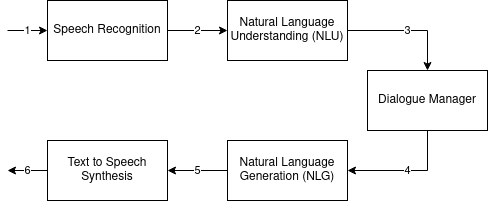
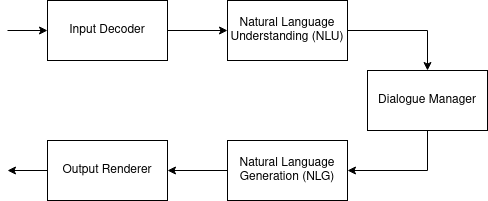
update components of chatbot

diff --git a/Chapter2/chapter2.tex b/Chapter2/chapter2.tex
@@ -45,21 +45,25 @@ Chatbot có thể được phân chia thành các loại sau đây:
               \item[--] Bạn có thể sử dụng chatbot trong nhiều mảng, ví dụ như nhận đơn đặt hàng của khách, dịch vụ khách hàng và quảng cáo sản phẩm.
           \end{itemize}
 \end{itemize}
-\subsection{Kiến trúc cơ bản của chatbot}
+\subsection{Các thành phần của chatbot}
 \begin{figure}[htp]
     \centering
     \includegraphics[width=15cm]{images/Kiến trúc cơ bản của hệ thống giao tiếp tự động.png}
-    \caption{Kiến trúc cơ bản của một hệ thống giao tiếp tự động}
+    \caption{Các thành phần cơ bản của chatbot}
     \label{fig:Kiến trúc cơ bản của hệ thống giao tiếp tự động}
 \end{figure}
+Một hệ thống chatbot bao gồm các thành phần sau: Input Decoder, Natural Language Understanding (\ac{nlu}), Dialogue Manager, Natural Language Generation (\ac{nlg}) và Output Renderer. Xem hình \ref{fig:Kiến trúc cơ bản của hệ thống giao tiếp tự động}.
 
-Các hệ thống chatbot giao tiếp với con người bằng giọng nói (như Siri \footnote{Xem thêm về Siri tại đây:\url{https://www.apple.com/siri/}}) hoặc bằng văn bản (như các chatbot phát triển trên nền Facebook Messenger \footnote{Xem thêm về Facebook Messenger tại đây:\url{https://www.apple.com/siri/}})). Dù giao tiếp bằng hình thức nào, chatbot cũng cần phải hiểu văn bản để có thể đưa ra những câu trả lời phù hợp cho khách hàng. Thành phần đảm nhiệm công việc này trong hệ thống chatbot được gọi là \ac{nlu}, trong đó có rất nhiều các kỹ thuật xử lý ngôn ngữ tự nhiên (\ac{nlp}) được áp dụng (xem hình \ref{fig:Kiến trúc cơ bản của hệ thống giao tiếp tự động}).
-\\
-Hai thành phần liên quan đến xử lý ngôn ngữ tự nhiên không thể thiếu của một \ac{nlu} module là bộ phân loại ý định và \ac{ner}. Phân loại ý định giúp chatbot hiểu ý định của người dùng. Về mặt bản chất phân loại ý định chính là một bài toán phân loại câu với tập nhãn là các ý định có thể có của người dùng (đã được định nghĩa từ trước). \ac{ner} giúp chatbot trích xuất các thông tin trong yêu cầu/câu trả lời của người dùng. Các thông tin đó có thể là tên sản phẩm, địa chỉ, số điện thoại, số tài khoản của người dùng,… \ac{ner} là một bài toán gán nhãn chuỗi cơ bản: cho vào một câu đầu vào, trích xuất tất cả các thực thể định danh trong câu và phân loại chúng vào một trong các nhãn đã được định nghĩa từ trước.
-\\
-Một thành phần xử lý ngôn ngữ tự nhiên khác có thể được thêm vào chatbot là bộ quản lý hội thoại, \ac{nlg}, và bộ phân tích cảm xúc. Một bộ quản lý hội thoại sẽ lưu trữ, phân tích và tận dụng ngữ cảnh cuộc hội thoại và giúp chatbot suy luận hành động tiếp theo trong khi \ac{nlg} giúp sinh câu trả lời đầy đủ, tự nhiên nhất bằng ngôn ngữ tự nhiên cho chatbot. Một bộ phân tích cảm xúc có thể cần bởi vì cùng một câu có thể mang nhiều nghĩa khác nhau trong các văn cảnh khác nhau, do đó có thể cần được trả lời theo các cách khác nhau phụ thuộc vào cảm xúc của người dùng.
-\\
-Bài luận này chủ yếu nghiên cứu về phát hiện ý định và trích xuất thực thể trong \ac{nlu} module.
+\begin{itemize}
+  \item[--] Input Decoder: thành phần này dùng để chuyển đổi input thành văn bản. Input ở đây có thể là giọng nói, cử chỉ hoặc chữ viết tay. 
+    \item[--] Natural Language Understanding (\ac{nlu}): Thành phần này đóng vai trò rất quan trọng trong hệ thống chatbot. Nó trích ra các thông tin cần thiết từ input để thành phần Dialogue Manager sử dụng. Hai thành phần không thể thiếu của \ac{nlu} là bộ phân loại ý định và \ac{ner}. 
+        \item[--] Dialogue Manager: thành phần này giúp quản lý luồng hội thoại. Dựa vào ngữ cảnh và dữ liệu từ \ac{nlu}, thành phần Dialogue Manager sẽ thực hiện truy vấn xuống cơ sở dữ liệu, hiển thị thông báo lỗi nếu có lỗi, hoặc trong trường hợp chưa hiểu ý rõ ý định của người dùng nó có thể tạo câu hỏi để biết thêm thông tin.
+        \item[--] Natural Language Generation (\ac{nlg}): thành phần này giúp tạo câu trả lời để trả về cho người dùng. Đối với hệ thống đơn giản chúng ta có thể định nghĩa trước những câu trả lời thay vì sử dụng \ac{nlg}.
+         \item[--] Output Renderer: thành phần này giúp biểu diễn câu trả lời cho người dùng. Câu trả lời có thể hiển thị dưới nhiều dạng như văn bản, âm thanh,...
+
+\end{itemize}
+
+Bài luận này sẽ nghiên cứu về thành phần \ac{nlu} cho việc phát hiện ý định và trích xuất thực thể.
 
 \section{Các hệ thống tương tự}
 
@@ -108,17 +112,6 @@ Hiểu ngôn ngữ tự nhiên là thành phần rất quan trọng và không t
 
 Hiện nay có rất nhiều nền tảng cung cấp thành phần hiểu ngôn ngữ tự nhiên, trong số đó những dịch vụ \ac{nlu} phổ biến nhất là: LUIS\footnote{\url{https://www.luis.ai/}}, Watson\footnote{\url{https://www.ibm.com/watson}}, DialogFlow\footnote{\url{https://cloud.google.com/dialogflow/docs/}}, Rasa\footnote{\url{https://rasa.com/}} và Snips\footnote{\url{https://snips.ai/}}.
 
-\subsection{Các nền tảng \ac{nlu} phổ biến}
-
-\textbf{Dialogflow (Google):} Trước đây được gọi là Api.ai, gần đây nó đã được đổi tên thành Dialogflow. Đây là một nền tảng phát triển trợ lý văn bản và nhanh chóng bổ sung khả năng nói. Framework này tạo ra chatbot thông qua giao diện người dùng dựa trên web hoàn chỉnh hoặc đối với các dự án phức tạp, sử dụng số lượng lớn thông qua các Rest API (cũng có nhiều SDK cho các ngôn ngữ lập trình khác nhau). Các ý định và thực thể khác nhau có thể được tạo ra bằng cách đưa ra các ví dụ và nó hỗ trợ nhiều ngôn ngữ khác nhau.
-
-\textbf{Watson (IBM):} Nền tảng này trở nên nổi tiếng vào năm 2011 vì nó đã giành chiến thắng trong một cuộc thi với các nhà vô địch của con người của trò chơi nguy hiểm. Watson là một NLU framework hoàn chỉnh cho phép phát triển một chatbot bằng cách sử dụng một giao diện người dùng trên nền tảng web hoặc để khai thác các SDK khác nhau, để tạo một trợ lý ảo nhanh chóng và với các chương trình ngôn ngữ khác nhau. Nền tảng này dễ dàng tích hợp với nhiều dịch vụ truyền thông khác nhau và cung cấp hỗ trợ đầy đủ sang công nghệ \ac{tts} và \ac{stt}. Watson cho phép phát hiện ý định và thực thể, và một số mô hình liên quan đến chủ đề chung được cung cấp bởi nền tảng, trong khi đối với các miền cụ thể, người dùng phải tạo mô hình đưa ra một tập hợp các ví dụ khá nhỏ để đào tạo Engine NLU.
-
-\textbf{Luis (Microsoft):} Tương tự như các nền tảng trước, Luis là một dịch vụ dựa trên đám mây có sẵn thông qua giao diện web hoặc các yêu cầu API. Luis cung cấp nhiều mô hình miền được tạo sẵn bao gồm ý định, lời nói và thực thể, hơn nữa, nó cho phép xác định các mô hình tùy chỉnh. Việc quản lý luồng đối thoại dẫn đến phức tạp hơn cho các sản phẩm khác. Tuy nhiên, có thể xây dựng một trợ lý ảo hoàn chỉnh với các khả năng tương tự được cung cấp bởi các dịch vụ khác. Các công cụ khác nhau tạo điều kiện phát triển trợ lý ảo được hỗ trợ (chẳng hạn như hỗ trợ kiểm tra, phân tích văn bản thành lời nói và cảm xúc).
-
-\textbf{Rasa NLU:} là một công cụ để hiểu những gì đang được nói trong các đoạn văn bản ngắn. Rasa NLU chủ yếu được sử dụng để xây dựng chatbot và ứng dụng thoại. Do là mã nguồn mở nên Rasa có thể được tùy chỉnh một cách dễ dàng để phù hợp với nhu cầu của người sử dụng.
-
-\textbf{Snips NLU:}  là một công cụ hiểu ngôn ngữ tự nhiên cho phép phân tích cú pháp các câu được viết bằng ngôn ngữ tự nhiên và trích xuất thông tin có cấu trúc. Chỉ cần một ít dữ liệu đào tạo là có thể tạo ra một công cụ nhận dạng ý định mạnh mẽ. Snips NLU có thể được tùy chỉnh và hỗ trợ nhiều ngôn ngữ như tiếng Anh, tiếng Pháp, tiếng Đức, tiếng Ý, v.v...
 
 \subsection{Yêu cầu lựa chọn}
 Do sự tồn tại của nhiều dịch vụ \ac{nlu}, việc lựa chọn ra một nền tảng để sử dụng cũng rất khó khăn. Nhóm em lựa chọn nền tảng \ac{nlu} dựa trên các tiêu chí sau đây:
@@ -150,14 +143,14 @@ Bài báo so sánh hiệu năng giữa các dịch vụ NLU khác nhau bao gồm
 
 Dựa trên 2 kho dữ liệu khác nhau:
 \begin{itemize}
-    \item[--] The Chatbot Corpus: Dựa trên các câu hỏi được thu thập bởi một Chatbot Telegram trong sử dụng sản xuất, trả lời câu hỏi về kết nối giao thông công cộng.
-    \item[--] The StackExchange Corpus: dựa trên dữ liệu từ hai nền tảng StackExchange\footnote{\url{https://stackexchange.com/}}: ask ubuntu\footnote{\url{https://askubuntu.com/}} và Web Applications\footnote{\url{https://webapps.stackexchange.com/}} Cả hai kho tài liệu đều có sẵn trên GitHub\footnote{\url{https://github.com/sebischair/NLU-Evaluation-Corpora}}  dưới Giấy phép Creative Commons CC BY-SA 3.011.
+    \item[--] The Chatbot Corpus: Bộ dữ liệu các câu hỏi về kết nối giao thông công cộng.
+    \item[--] The StackExchange Corpus: dựa trên dữ liệu từ hai nền tảng StackExchange\footnote{\url{https://stackexchange.com/}}: ask ubuntu\footnote{\url{https://askubuntu.com/}} và Web Applications\footnote{\url{https://webapps.stackexchange.com/}}. Cả hai kho tài liệu đều có sẵn trên GitHub\footnote{\url{https://github.com/sebischair/NLU-Evaluation-Corpora}}.
 \end{itemize}
 
 Chatbot Corpus:
 
 \begin{itemize}
-    \item[--] Bao gồm 206 câu hỏi, được tác giả gán nhãn thủ công. Có 2 intent (Departure Time, Find Connection) trong kho ngữ liệu và 5 loại entity khác nhau (StationStart, StationDest, Criterion, Vehicle, Line). Ngôn ngữ chủ yếu là tiếng Anh, một số tên trạm và tên đường bằng tiếng Đức. Dữ liệu được chia thành làm 2 phần, dữ liệu huấn luyện 100 câu và dữ liệu kiểm thử 106 câu.
+    \item[--] Bao gồm 206 câu hỏi được gán nhãn thủ công. Bao gồm 2 intent (Departure Time, Find Connection) và 5 loại entity khác nhau (StationStart, StationDest, Criterion, Vehicle, Line). Ngôn ngữ chủ yếu là tiếng Anh, một số tên trạm và tên đường bằng tiếng Đức. Dữ liệu được chia thành làm 2 phần, dữ liệu huấn luyện 100 câu và dữ liệu kiểm thử 106 câu. Xem bảng \ref{fig:comparisonimg-1}.
 \end{itemize}
 
 
@@ -185,15 +178,17 @@ $\Sigma$                    & 250               & 244           & 494 \\ \hline
 StackExchange Corpus
 
 \begin{itemize}
-    \item[--] Đối với bộ dữ liệu StackExchange, tác giả chọn ra những câu hỏi có đánh giá cao nhất và nhiều lượt xem nhất từ 2 nền tảng ask ubuntu và web applications,  bởi vì chúng có khả năng là có chất lượng tốt hơn các câu hỏi ít phổ biến hơn.
+    \item[--] Đối với bộ dữ liệu StackExchange, tác giả chọn ra những câu hỏi có đánh giá cao nhất và nhiều lượt xem nhất từ 2 nền tảng ask ubuntu và web applications.
         \item[--]Bộ dữ liệu thu được tổng cộng là 290 câu hỏi, 100 câu từ web applications và 190 câu từ ask ubuntu.
         \item[--]Ý định và thực thể cũng được gán nhãn thủ công:
         \begin{itemize}
-            \item[+]Đối với ask ubuntu, những ý định có thể là “Make Update”, “Setup Printer”, “Shutdown Computer”, and “Software Recommendation”. Những entity có thể có là : “SoftwareName”, “Printer”, and “UbuntuVersion”.
-            \item[+] Đối với web applications, những ý định có thể có là “Change Password”, “Delete Account”, “Download Video”, “Export Data”, “Filter Spam”, “Find Alternative”, and “Sync Accounts”. Những entity có thể có là “WebService”, “OperatingSystem” and “Browser”.
+            \item[+]Đối với ask ubuntu, bao gồm các ý định “Make Update”, “Setup Printer”, “Shutdown Computer”, và “Software Recommendation”. Những entity có thể có là : “SoftwareName”, “Printer”, and “UbuntuVersion”.
+            \item[+] Đối với web applications, bao gồm các ý định “Change Password”, “Delete Account”, “Download Video”, “Export Data”, “Filter Spam”, “Find Alternative”, và “Sync Accounts”. Những entity có thể có là “WebService”, “OperatingSystem” and “Browser”.
         \end{itemize}
     \item[--] Sau khi gán nhãn và chọn lọc, bộ dữ liệu cuối cùng bao gồm 251 câu, trong đó 162 câu thuộc ask ubuntu và 89 câu thuộc web application.
-    \item[--] Dữ liệu cũng được chia thành dữ liệu huấn luyện và dữ liệu kiểm thử như bảng sau:
+    \item[--] Dữ liệu web applications được chia thành dữ liệu huấn luyện và dữ liệu kiểm thử như bảng  \ref{fig:comparisonimg-webappdatasets}.
+     \item[--] Dữ liệu ask ubuntu được chia thành dữ liệu huấn luyện và dữ liệu kiểm thử như bảng \ref{fig:comparisonimg-askubuntudatasets}.
+      \item[--] Bảng \ref{fig:comparisonimg-entityTypesStackExchange} mô tả các thực thể có trong bộ ngữ liệu StackExchange.
 \end{itemize}
 
 
@@ -263,8 +258,8 @@ dataset                                         & Entity Type & \textbf{training
 
 \begin{itemize}
     \item[--] Tác giả huấn luyện mô hình trên các nền tảng LUIS, Watson Conversation, API.ai, và RASA. Tất cả đều dùng trên cùng một bộ dữ liệu.
-        \item[--]Sau đó bộ dữ liệu kiểm thử đã được gửi đến các dịch vụ \ac{nlu} để gán nhãn, đem gán nhãn được dự đoán bởi dịch vụ \ac{nlu} so sánh với nhãn thực tế.
-        \item[--]Để mà đánh giá kết quả, tác giả đã tính toán các độ đo precision và recall cũng như F-score cho từng intents, entity types, và từng bộ dữ liệu, cũng như kết quả tổng quát. Chúng ta sẽ nói rằng một dịch vụ tốt hơn dịch vụ kia nếu F-score của nó cao hơn.
+        \item[--]Sau đó bộ dữ liệu kiểm thử đã được gửi đến các dịch vụ \ac{nlu} để gán nhãn, so sánh gán nhãn dự đoán bởi dịch vụ \ac{nlu} với nhãn thực tế.
+        \item[--]Để mà đánh giá kết quả, tác giả đã tính toán các độ đo precision và recall cũng như F-score cho từng intents, entity types, từng bộ dữ liệu, cũng như kết quả tổng quát. Một dịch vụ tốt hơn dịch vụ kia nếu F-score của nó cao hơn.
 \end{itemize}
 
 \textbf{Đánh giá}
@@ -280,12 +275,13 @@ Kết quả thu được được mô tả dưới hình sau \ref{fig:comparison
 
 \begin{itemize}
     \item[--] Tổng quát LUIS có hiệu năng tốt nhất với F-score là 0.916, tiếp sau đó là là Rasa (0.821), Watson Conversation (0.752), and API.ai (0.687). Trên từng bộ dữ liệu: chatbot, web apps và ask ubuntu, LUIS cũng có hiệu năng cao nhất. Tương tự , API.ai có hiệu năng thấp nhất trên từng bộ dữ liệu, trong khi đó vị trí thứ 2 thay đổi giữa Watson và Rasa.
-    \item[--] Dựa trên dữ liệu này, hiệu suất tốt nhất thuộc về sản phẩm thương mại LUIS, tuy nhiên phần mềm nguồn mở Rasa hiệu năng cao hơn các sản phẩm thương mại khác.
+    \item[--] Dựa trên dữ liệu này, hiệu suất tốt nhất thuộc về sản phẩm thương mại LUIS, tuy nhiên phần mềm nguồn mở Rasa hiệu năng cao hơn các sản phẩm thương mại còn lại.
 \end{itemize}
 
 \textbf{II. Benchmarking Natural Language Understanding Services for building Conversational Agents}
 
-Tương tự như bài báo trên, bài này cũng so sánh hiệu năng giữa các dịch vụ NLU bao gồm các sản phẩm thương mại: Dialogflow, LUIS và Watson, mã nguồn mở gồm Rasa.
+Tương tự như bài báo trên, bài này cũng so sánh hiệu năng giữa các dịch vụ NLU bao gồm các sản phẩm thương mại: Dialogflow\footnote{\url{https://cloud.google.com/dialogflow/docs/}}, LUIS\footnote{\url{https://www.luis.ai/}} và Watson\footnote{\url{https://www.ibm.com/watson}}, mã nguồn mở gồm Rasa\footnote{\url{https://rasa.com/}}.
+
 
 \textbf{Dữ liệu: }
 
@@ -298,7 +294,7 @@ Tương tự như bài báo trên, bài này cũng so sánh hiệu năng giữa 
 
 Dữ liệu huấn luyện và kiểm thử
 \begin{itemize}
-    \item[--] Vì LUIS giới hạn kích thước dữ liệu huấn luyện, nên mỗi intent trong số 64 intent chọn ra ngẫu nhiên 190 câu nói. Một số intent có ít hơn 190 câu nói một chút.
+    \item[--] Vì LUIS giới hạn kích thước dữ liệu huấn luyện, nên mỗi intent chọn ra ngẫu nhiên 190 câu nói. Một số intent có ít hơn 190 câu nói một chút.
     \item[--] Dữ liệu thu được là 11036 câu nói thuộc 64 ý định và 54 loại thực thể.
     \item[--] Đối với thử nghiệm đánh giá, tác giả sử dụng 10 fold cross-validation với 90\% dữ liệu huấn luyện và 10\% dữ liệu kiểm thử.
 \end{itemize}
@@ -352,14 +348,15 @@ Watson     & 0.540 & 0.838 & \textbf{0.657} \\ \hline
 \textbf{III. Snips Voice Platform: an embedded Spoken Language Understanding system for private-by-design voice interfaces}
 
 \begin{itemize}
-    \item[--] Thử nghiệm này được thực hiện giống với phương pháp của bài báo đã được xuất bản trước đó. Evaluating Natural Language Understanding Services for Conversational Question Answering Systems. So sánh hiệu năng giữa các dịch vụ \ac{nlu} khác nhau: một số giải pháp dựa trên đám mây phổ biến (Microsoft’s Luis, IBM Watson, API.AI nay là Dialogflow của Google) và nền tảng mã nguồn mở Rasa NLU.
-    \item[--] Để biết kết quả thô, xem ở \url{https://github.com/sonos/nlu-benchmark}. Chỉ số chính được sử dụng trong điểm chuẩn này là F1-score trung bình của phân loại ý định và các thực thể.
+    \item[--] Thử nghiệm này được thực hiện giống với phương pháp của bài báo đã được xuất bản trước đó. Evaluating Natural Language Understanding Services for Conversational Question Answering Systems \cite{EvaluatingNLU}. So sánh hiệu năng giữa các dịch vụ \ac{nlu} khác nhau: một số giải pháp dựa trên đám mây phổ biến (Microsoft’s Luis, IBM Watson, API.AI nay là Dialogflow của Google), nền tảng mã nguồn mở Rasa NLU và Snips NLU.
+    \item[--] Chỉ số chính được sử dụng trong điểm chuẩn này là F1-score trung bình của phân loại ý định và các thực thể. Xem kết quả thô\footnote{\url{https://github.com/sonos/nlu-benchmark}}. 
 \end{itemize}
 
 \textbf{Dữ liệu}
 \begin{itemize}
-    \item[--] Dữ liệu bao gồm ba kho tài liệu. Hai trong đó được trích xuất từ StackExchange, một từ chatbot Telegram. Kết quả được trình bày trong hình \ref{fig:benchmark2017and2018}. Hình \ref{fig:averageF1-scores} trình bày trung bình kết quả trên ba kho tài liệu, tương ứng với phần tổng thể của hình \ref{fig:benchmark2017and2018}. Rasa được xem xét trên cả ba phần backend có thể có (Spacy, SKLearn + MITIE, MITIE). Tuy nhiên vì lý do thời gian huấn luyện, chỉ có Spacy được chạy trên cả 3 bộ dữ liệu.
-    \item[--] Để công bằng, phiên bản mới nhất của Rasa NLU cũng được sử dụng. Kết quả cho thấy Snips NLU xếp hạng cao thứ hai về tổng thể.
+    \item[--] Dữ liệu bao gồm ba kho tài liệu. Hai trong đó được trích xuất từ StackExchange, một từ chatbot Telegram. Hình \ref{fig:averageF1-scores} trình bày trung bình kết quả trên ba kho tài liệu. Kết quả được trình bày trong bảng \ref{fig:benchmark2017and2018}. Rasa được xem xét trên cả ba phần backend có thể có (Spacy, SKLearn + MITIE, MITIE). Tuy nhiên vì lý do thời gian huấn luyện, chỉ có Spacy được chạy trên cả 3 bộ dữ liệu.
+    \item[--] Để công bằng, phiên bản mới nhất của Rasa NLU cũng được sử dụng.
+
 \end{itemize}
 
 
@@ -386,8 +383,9 @@ overall    & \begin{tabular}[c]{@{}l@{}}Luis*\\ IBM Watson*\\ API.ai*\\ Rasa*\\ 
     \label{fig:averageF1-scores}
 \end{figure}
 
+\textbf{Kết quả}
 \begin{itemize}
-    \item[--] Dựa trên dữ liệu hình \ref{fig:benchmark2017and2018}, hiệu suất tốt nhất cũng thuộc về sản phẩm thương mại LUIS (F1-score 0.916), trong khi đó cả vị trí thứ 2 và thứ 3 đều thuộc về sản phẩm nguồn mở Snips (F1-score 0.877) và Rasa  (F1-score 0.861)
+    \item[--] Dựa trên dữ liệu hình \ref{fig:benchmark2017and2018}, hiệu suất tốt nhất thuộc về sản phẩm thương mại LUIS (F1-score 0.916), trong khi đó cả vị trí thứ 2 và thứ 3 đều thuộc về sản phẩm nguồn mở Snips (F1-score 0.877) và Rasa  (F1-score 0.861).
     \item[--] Trong bài này nhóm em quan tâm đến kết quả so sánh giữa Rasa với Snips (đều là 2 nền tảng nguồn mở). Khi cả 2 đều sử dụng phiên bản mới nhất và được đánh giá trên cùng một bộ dữ liệu, cả Rasa và Snips đều thể hiện hiệu năng tốt và không chênh lệch nhau nhiều. Tuy nhiên F1-score của Snips nhỉnh hơn một chút so với Rasa (F1-score của Snips là 0.877 và của Rasa là 0.861)
 \end{itemize}
 

diff --git a/Chapter3/chapter3.tex b/Chapter3/chapter3.tex
@@ -85,9 +85,15 @@ Trong bài toán trích xuất thông tin, tập nhãn cho các từ trong câu 
 
 Thuật toán huấn luyện mô hình gán nhãn chuỗi phổ biến là mô hình Markov ẩn (HMM – Hidden Markov Models) \cite{2}, mô hình CRF (Conditional Random Fields) \cite{3}. Với dữ liệu văn bản, mô hình CRF thường cho kết quả tốt hơn mô hình HMM. Có khá nhiều các công cụ mã nguồn mở cài đặt mô hình CRF cho bài toán gán nhãn chuỗi như CRF++ \cite{4}, CRF Suite \cite{5}, Mallet \cite{6},…
 
-\begin{figure}[htp]
-    \centering
-    \includegraphics[width=15cm]{images/Model-BIO.png}
+\begin{table}[]
+\begin{center}
+\scalebox{0.5}{
+\begin{tabular}{|l|l|l|l|l|l|l|l|l|l|l|l|l|l|l|}
+\hline
+Tôi & muốn & đặt & vé & máy bay & đi & Phú Quốc   & sân bay & Nội Bài    & vào & 8      & giờ    & tối    & ngày   & mai    \\ \hline
+O   & O    & O   & O  & O       & O  & B-LOCATION & O       & B-LOCATION & O   & B-TIME & I-TIME & I-TIME & I-TIME & I-TIME \\ \hline
+\end{tabular}}
     \caption{Gán nhãn từ theo mô hình B-I-O trong trích xuất thông tin}
     \label{fig:model-BIO}
-\end{figure}
+    \end{center}
+\end{table}
